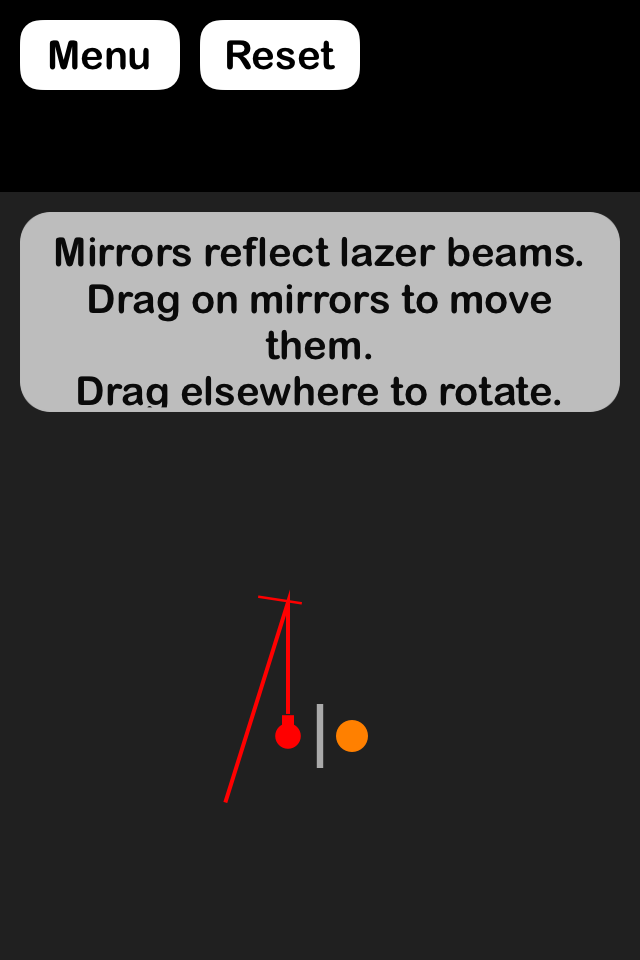
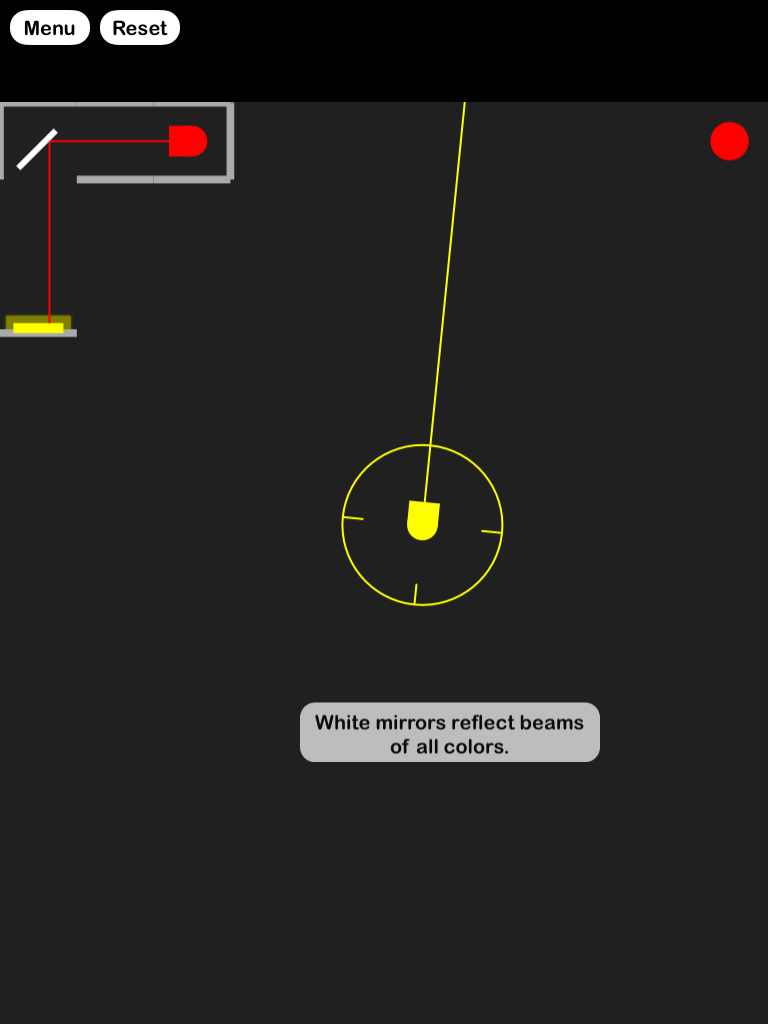
full screenshots

diff --git a/src/components/IosApps.tsx b/src/components/IosApps.tsx
@@ -39,7 +39,7 @@ const apps: IosApp[] = [
   },
   {
     name: 'CO2 Footprint',
-    description: 'Calculate and track your carbon footprint with detailed breakdowns',
+    description: 'Calculate personal carbon footprint',
     githubUrl: 'https://github.com/ldanilek/CO2-Footprint',
     iconUrl: '/ios_images/icons/co2-footprint.png',
     screenshots: [
@@ -50,43 +50,55 @@ const apps: IosApp[] = [
   },
   {
     name: 'Lazer-Maze',
-    description: 'A puzzle game where you guide laser beams through mazes using mirrors and prisms',
-    githubUrl: 'https://github.com/leedanilek/lazer-maze-ios',
+    description: 'Puzzle game of lasers and mirrors',
+    githubUrl: 'https://github.com/ldanilek/Lazer-Maze',
     iconUrl: '/ios_images/icons/lazer-maze.png',
     screenshots: [
       '/ios_images/screenshots/lazer-maze/complex-level.PNG',
-      '/ios_images/screenshots/lazer-maze/instructions.PNG',
+      '/ios_images/screenshots/lazer-maze/instructions.png',
       '/ios_images/screenshots/lazer-maze/menu.png',
     ]
   },
   {
     name: 'Hangmaner',
-    description: 'A unique take on the classic Hangman game with multiple categories and difficulty levels',
-    githubUrl: 'https://github.com/leedanilek/hangmaner-ios',
+    description: 'App for identifying the best next hangman guess',
+    githubUrl: 'https://github.com/ldanilek/Hangmaner',
     iconUrl: '/ios_images/icons/hangmaner.png',
     screenshots: [
-      '/ios_images/screenshots/hangmaner-1.png',
-      '/ios_images/screenshots/hangmaner-2.png'
+      '/ios_images/screenshots/hangmaner/blockadingDvorak.png',
+      '/ios_images/screenshots/hangmaner/newGameCalendar.png',
+      '/ios_images/screenshots/hangmaner/probablydvorak.png',
     ]
   },
   {
     name: 'BloodBot',
-    description: 'Track and analyze blood glucose levels with smart insights and trends',
-    githubUrl: 'https://github.com/leedanilek/bloodbot-ios',
+    description: 'Game where you drive a robot around cleaning up a bloodstream of diseases',
+    githubUrl: 'https://github.com/ldanilek/BloodBot',
     iconUrl: '/ios_images/icons/bloodbot.png',
     screenshots: [
-      '/ios_images/screenshots/bloodbot-1.png',
-      '/ios_images/screenshots/bloodbot-2.png'
+      '/ios_images/screenshots/bloodbot/game.png',
+      '/ios_images/screenshots/bloodbot/game1.png',
     ]
   },
   {
     name: 'PhysError',
-    description: 'Calculate and propagate uncertainties in physics measurements and calculations',
-    githubUrl: 'https://github.com/leedanilek/physerror-ios',
+    description: 'Propagating error bounds through physics equations',
+    githubUrl: 'https://github.com/ldanilek/PhysError',
     iconUrl: '/ios_images/icons/physerror.png',
     screenshots: [
-      '/ios_images/screenshots/physerror-1.png',
-      '/ios_images/screenshots/physerror-2.png'
+      '/ios_images/screenshots/physerror/calculation.png',
+      '/ios_images/screenshots/physerror/withvariables.png'
+    ]
+  },
+  {
+    name: 'Play Turing',
+    description: 'Puzzle game where you write rules for a Turing machine',
+    githubUrl: 'https://github.com/ldanilek/Play-Turing',
+    iconUrl: '/ios_images/icons/play-turing.png',
+    screenshots: [
+      '/ios_images/screenshots/play-turing/xor.png',
+      '/ios_images/screenshots/play-turing/binaryadd1.png',
+      '/ios_images/screenshots/play-turing/levels.png'
     ]
   }
 ];
@@ -175,7 +187,7 @@ const IosApps: React.FC = () => {
       </header>
       <h2>iOS Apps</h2>
       <p className="ios-apps-intro">
-        A collection of iOS apps I developed between 2012-2016. While these apps are no longer available on the App Store,
+        A collection of iOS apps I developed under the name "Ship Shape Apps" between 2011-2017. While these apps are no longer available on the App Store,
         you can explore their source code on GitHub.
       </p>
       

diff --git a/src/components/IosApps.css b/src/components/IosApps.css
@@ -41,10 +41,6 @@
   }
 }
 
-.ios-apps a:hover {
-  text-decoration: underline;
-}
-
 .ios-apps ul {
   list-style-type: disc;
   margin-left: 20px;
@@ -80,14 +76,14 @@
   background: var(--bg-primary);
   border-radius: 12px;
   padding: 1.5rem;
-  box-shadow: 0 4px 6px var(--shadow-color);
+  box-shadow: 0 0px 6px var(--shadow-color);
   transition: transform 0.2s ease, box-shadow 0.2s ease;
   overflow-x: hidden;
 }
 
 .app-card:hover {
   transform: translateY(-4px);
-  box-shadow: 0 8px 12px var(--shadow-color-hover);
+  box-shadow: 0 1px 12px var(--shadow-color-hover);
 }
 
 .app-header {

diff --git a/src/components/Header.tsx b/src/components/Header.tsx
@@ -15,6 +15,7 @@ const Header = () => {
           <li><a href="#about" onClick={(e) => scrollToSection(e, 'about')}>About</a></li>
           <li><a href="#links" onClick={(e) => scrollToSection(e, 'links')}>Links</a></li>
           <li><a href="#projects" onClick={(e) => scrollToSection(e, 'projects')}>Projects</a></li>
+          <li><a href="/ios">iOS Apps</a></li>
           <li><a href="#reading" onClick={(e) => scrollToSection(e, 'reading')}>Reading List</a></li>
         </ul>
       </nav>
